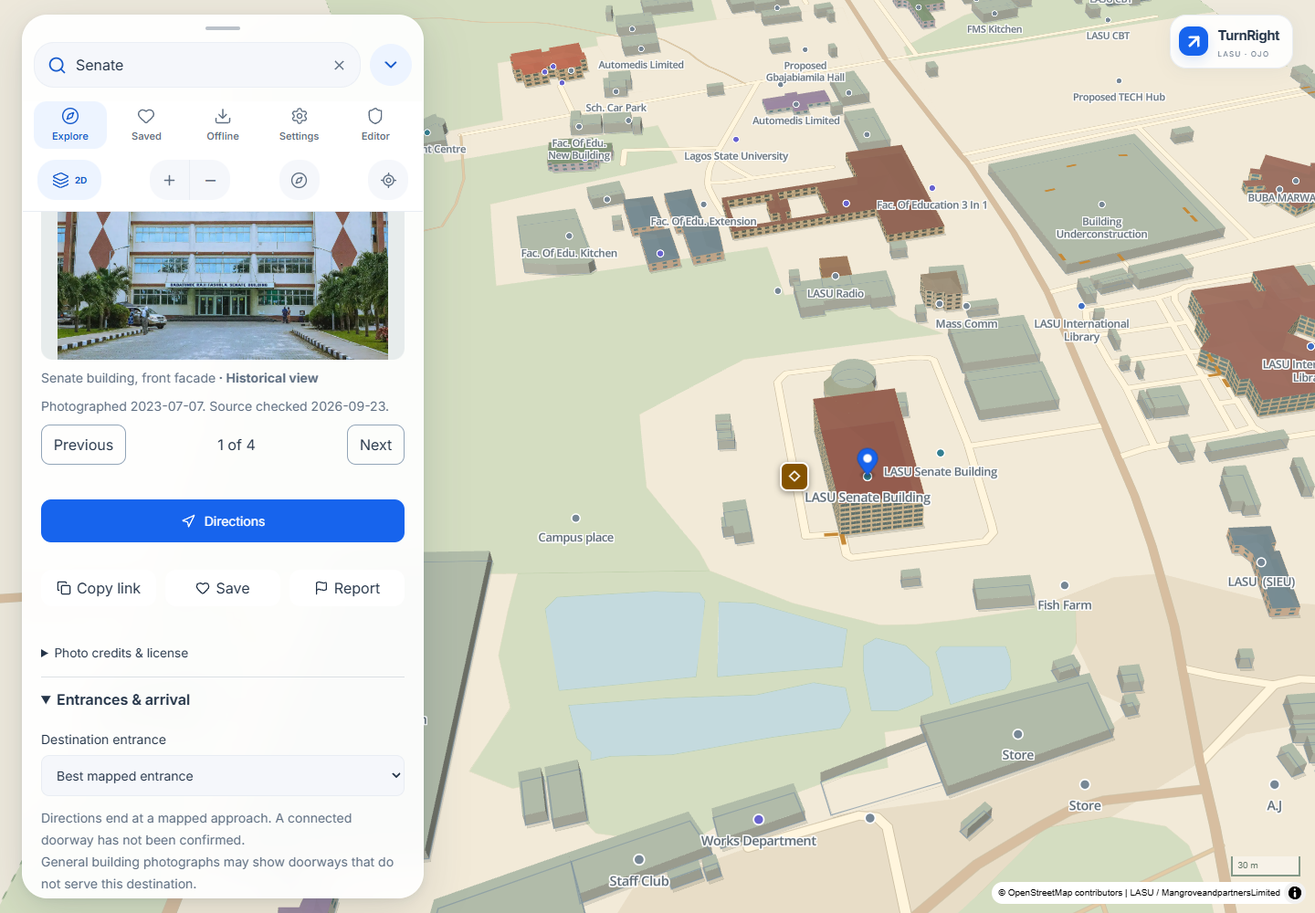
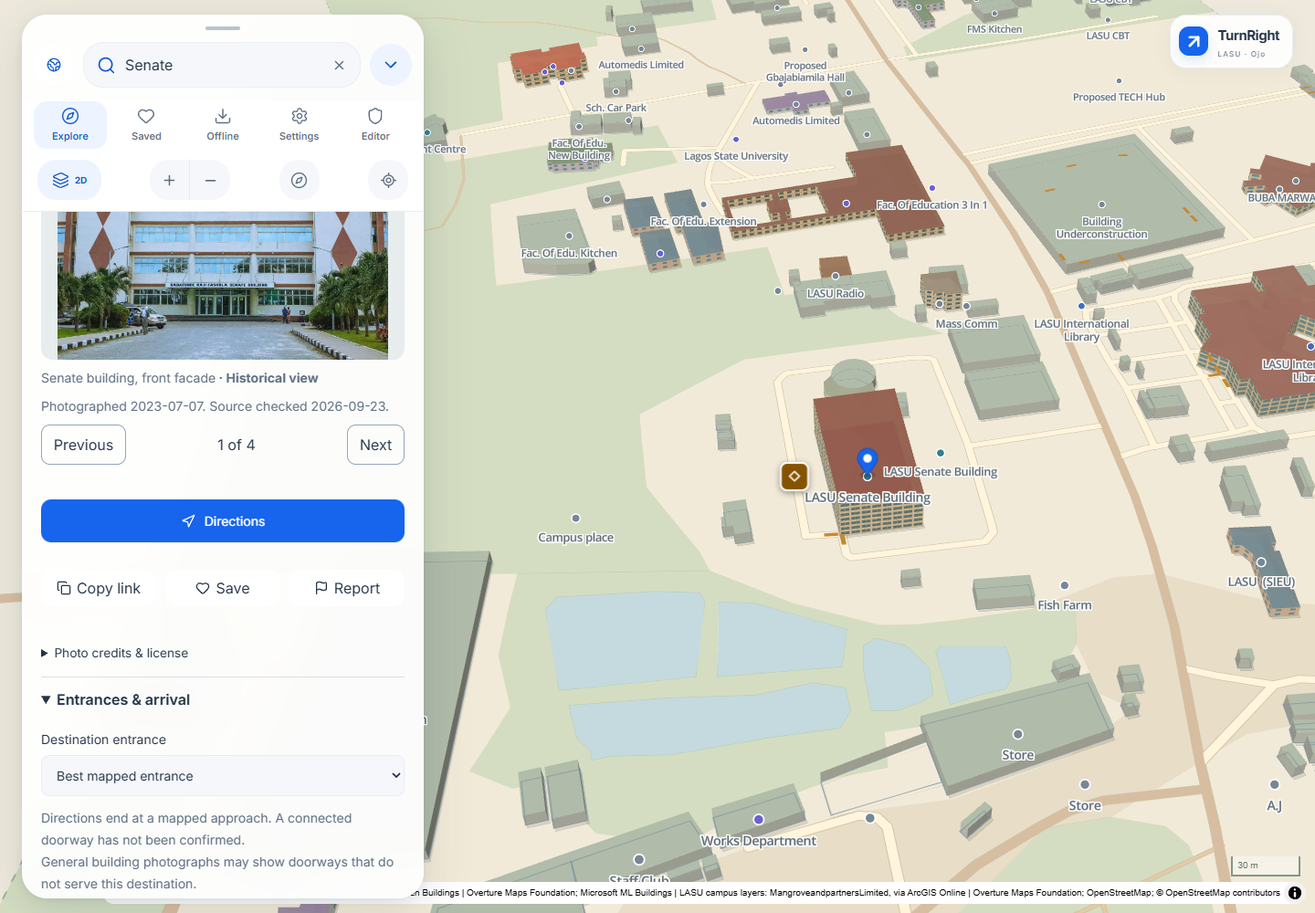
docs: refresh project scope, module tree and current screenshots

Changed region(s): [[0.0938, 0.961, 0.9688, 0.992], [0.0312, 0.062, 0.125, 0.093]]

diff --git a/README.md b/README.md
@@ -10,6 +10,16 @@ TurnRight is a campus walking and driving navigation PWA with a private owner wo
 
 > **Project status:** An independent, non-commercial personal project, not an official LASU service. Routes and modeled details combine recorded sources, reviewed corrections and explicitly illustrative estimates. Campus routes have **not been field-verified**. A mapped approach is not a confirmed building entrance, and missing steps information does not establish step-free access.
 
+The project has three connected parts: a public offline navigation app, a private campus/GIS workspace, and a building authoring editor. The same owner reviews and publishes each campus independently. LASU is currently the only published campus; other campus names in screenshots are test fixtures. Application releases and reviewed map releases have separate versions.
+
+| Project area | Current scope |
+| --- | --- |
+| Public map | Published-campus search and switching, walking/driving routes, entrances, photos, sharing, reports, voice, GPS, globe animation and per-campus offline downloads. |
+| Campus authoring | Campus creation, vector-file/OSM/public ArcGIS imports, projection and field mapping, source comparison, topology repair, surveys, private recovery and independent preview/publish/restore. |
+| Building authoring | Surface editing, individual windows, wall/roof text, reference photographs, exterior walls and curves, object/component mesh editing, GLB/glTF/OBJ/STL exchange and reviewed model publication. |
+
+[Documentation index](docs/README.md) separates current guides from dated research and verification records.
+
 ## Contents
 
 - [Screenshots](#screenshots)
@@ -60,9 +70,9 @@ Current production-build captures use the verified published campus **`lasu-7343
 
 ### Campuses and map imports
 
-The implementation below is on `codex/multi-campus-imports`. Compatible readers
-are deployed; production import controls await the database migration. See
-[the current rollout status](docs/PRODUCTION.md).
+Campuses and map imports are live. Migrations 013–015 and the owner controls
+were deployed on 26 September 2026, preserving the existing LASU map and drafts.
+See [the verified rollout](docs/PRODUCTION.md).
 
 Open **Editor → Campuses** to create a campus, draw or import its boundary, and add sources. GeoJSON, zipped Shapefiles, GeoPackage, KML/KMZ, GPX, coordinate CSV and complete OSM XML/PBF extracts become editable vector layers. Online sources include OpenStreetMap through Overpass and public ArcGIS Web Maps, embedded collections and queryable services.
 
@@ -78,7 +88,9 @@ Imports remain private review candidates. Stable source identities protect repea
 
 ![Campuses workspace with independent source and import histories](docs/assets/screenshots/campus-workspace-2026-09-26.png)
 
-Public **Campuses** search and globe markers list published campuses. `?campus=<slug>` composes with existing place/building links; old links remain LASU-only. Each campus has its own saved places, report drafts, editor recovery and offline download. A campus can publish before routing is ready, with a clear directions-unavailable state.
+![Dark theme import form with readable fields and preserved input](docs/assets/screenshots/campus-dark-2026-09-26.png)
+
+The globe button beside public search (**Choose a campus**) and globe markers list published campuses. `?campus=<slug>` composes with existing place/building links; old links remain LASU-only. Each campus has its own saved places, report drafts, editor recovery and offline download. A campus can publish before routing is ready, with a clear directions-unavailable state.
 
 | Published-campus switcher | Download one campus independently |
 | --- | --- |
@@ -90,7 +102,7 @@ Publication replaces only the reviewed campus entry while preserving the other c
 
 These new screenshots use isolated owner/API fixtures and illustrative second-campus names. They are not evidence that a second campus has been published. The remaining gallery continues to show the verified LASU package and existing model/navigation workflows.
 
-## Owner editor
+### Owner editor gallery
 
 | Workspace and feature explorer | Selected building with photographs at the top |
 | --- | --- |
@@ -157,7 +169,7 @@ The gallery covers the public app, desktop editor, mobile modes, surface text an
 - **Editing directly on surfaces:** **Edit surface** aligns the existing 3D canvas to walls, roofs or footprints. Wall handles, roof points/ridges and footprint vertices reuse precision-editing commands. Orbit restores the camera. Edit surface automatically falls back to a 2D drawing when WebGL is unavailable, retaining the same tools and numeric fields.
 - **Building lettering:** add and edit text on walls and roofs, with wording, size, colour, alignment and placement controls. Roof text follows the actual roof planes. **Ungroup** and **Detach instance** are available in selected-item actions. All use existing undo and draft persistence; publication remains a separate reviewed action.
 
-- **Canvas-first mobile modelling:** all five modes share a full-screen preview and one focused tool sheet. Tap selects; Move and Resize explicitly edit. **×** leaves the workspace and preserves unfinished work; **Done** closes only its tools. Short landscape screens put scrollable tools beside the canvas. Pinch navigation, multi-selection, held nudges and decimal inputs support precise editing. Desktop uses a collapsible tree, central viewport and properties panel.
+- **Canvas-first mobile modelling:** architectural and mesh tools share a full-screen preview and one focused tool sheet. Tap selects; Move and Resize explicitly edit. **×** leaves the workspace and preserves unfinished work; **Done** closes only its tools. Short landscape screens put scrollable tools beside the canvas. Pinch navigation, multi-selection, held nudges and decimal inputs support precise editing. Desktop uses a collapsible tree, central viewport and properties panel.
 - **Actions beside the selection:** the selected detail's ⋯ button, right-click and Shift+F10 open Duplicate, Copy, Paste/copy-to, Delete, Lock and Hide. Touch and hold a detail in **3D** to open the same menu; moving or adding a second finger cancels a pending hold. Keyboard shortcuts and placement previews support quick editing with Ungroup and Detach instance also shown when applicable.
 - **Height that changes the model:** whole-building metres and floor count are editable inside Appearance. Custom roof elevations adjust proportionally by default; owners can retain recorded elevations, fit an existing mismatch or explicitly remove a wing override. Height/roof adjustments share one undo action.
 
@@ -177,7 +189,7 @@ Release review names each pending building/wall approval before a preview is que
 | --- | --- |
 | Exploration | Bottom search dock, local place search, categories, aliases, saved/recent places, provenance and recorded street names. |
 | Map controls and panels | Adjustable mobile/desktop cards and dialogs; full-height desktop opening; pinned navigation; view/compass controls on the left and zoom/location on the right. |
-| World overview | Illustrated campus palette with subtle September 2004 NASA relief, gentle atmosphere, Natural Earth coastlines/lakes/borders, offline labels and a return-to-campus action. |
+| World overview | Illustrated campus palette, dated NASA relief, Natural Earth geography, published-campus markers, idle rotation and decorative clouds with reduced-motion controls. |
 | App updates | Visible update-ready notice, explicit installation, foreground/online checks and navigation safeguards. |
 | Driving directions | Offline campus drive-and-walk journeys, vehicle permissions and one-way roads, turn restrictions, estimated ETA, parking selection, voice guidance, and a confirmed parking-to-walking handoff. Private roads and parking require separate owner driving review. |
 | Walking directions | Worker-based A* routing, the shortest permitted walk and up to two sufficiently different alternatives when available. Recorded steps are shown; missing data stays unknown. |
@@ -188,16 +200,17 @@ Release review names each pending building/wall approval before a preview is que
 | Appearance | Shared Device/Light/Dark settings in the public map and editor, a single opposite-action 2D/3D button, Enhanced by default and a remembered Simple option. |
 | Enhanced buildings | Modeled walls, windows, trim, wings and roofs; original material colours in both themes, with automatic detail levels and simple fallback. |
 | Owner editing | Autosave, grouped undo/redo, controlled automatic crossings and explicit joins, selection framing, publication-relative drafts, recoverable drawings/roof plans, guided repairs and conflicts. |
-| Building editing | Shared surface editing with automatic 2D fallback; nested structure tree; wall/roof text; inherited styles; details, grouping, patterns and presets; targeted review and recoverable autosave. |
+| Building editing | Shared surface editing, automatic 2D fallback, individual window selection, nested tree, wall/roof text, reference split, exterior curves, mesh components, model-file import/export and recoverable autosave. |
 | Offline | Verified, resumable package downloads, explicit updates, integrity repair, prepared owner workspaces and immediate local recovery exports. |
-| Data maintenance | Source comparison, reference/roof proposals, validation, release-impact and route checks, immutable preview/publish/rollback. |
+| Campus imports | Separate campus boundaries and sources; GIS files, OSM/Overpass and public ArcGIS; resumable jobs, CRS/field mapping, explicit review and manual or opted-in daily refresh. |
+| Data maintenance | Source comparison, validation, model/route review, immutable previews, independent campus publication and restore previews that preserve other campuses. |
 | Reports and surveys | Private student reports with local offline drafts; owner-only walking surveys, entrance markers, touch review and recoverable private sync. |
 
-Cycling, indoor positioning, current campus satellite imagery, background navigation, public user accounts and public user reviews are outside this release.
+Cycling, cross-campus routing, indoor layouts/positioning, sculpting, advanced mesh modifiers, live weather, current campus satellite imagery, background navigation, public user accounts and public reviews are outside this release. GIS imports exclude imagery/PDF alignment, private ArcGIS authentication and File Geodatabases. Model files preserve supported static geometry and materials, not animation or rigging.
 
 ## Quick start
 
-Use **Node.js 22.13+ within the 22.x line**, npm, Git and a WebGL-capable browser. Python 3.12+ is needed for importer scripts and their tests.
+Use **Node.js 22.13+ within the 22.x line**, npm, Git and a WebGL-capable browser. Python 3.12+ is needed for importer scripts and their tests. Full GIS conversion requires the pinned Linux Docker runtime in `scripts/map_import/Dockerfile`; GDAL/PROJ and Pyosmium stay outside the browser bundle.
 
 ```sh
 git clone https://github.com/mrglasswillbreak/TurnRight.git
@@ -364,18 +377,21 @@ At globe scale, separate controls enable gentle automatic rotation and decorativ
 
 **Saving a draft and deploying application code do not publish campus changes.**
 
-1. Import source candidates with **Check now** or the scheduled source job. Incomplete imports retain the last successful source set.
+1. Select the target campus. Use **Campuses → Import data** for new sources, or refresh an existing source. LASU also retains its original **Check now** and daily source workflow. Incomplete imports retain the last successful source set.
 2. Compare property rows and before/after geometry; raw records remain under Details. Review baseline reconciliation when approved sources differ from a published baseline.
-3. Resolve blocking validation issues and inspect release impact: added/changed/deleted features, entrance and connectivity changes, and Clinic–Senate, Clinic–Law and Clinic–Library route results.
+3. Resolve blocking validation issues and inspect release impact: added/changed/deleted features, entrance and connectivity changes, and representative routes. LASU retains Clinic–Senate, Clinic–Law and Clinic–Library comparisons; new campuses use their own reviewed network. Map-only campuses can publish with directions explicitly unavailable.
 4. Resolve any **Model release blockers** first. The panel names the building, wing and wall; **Review model** opens the affected assignment. Height or roof changes can require another placement review without changing the wall match. Then **Build review preview** flushes pending saves and creates an immutable release snapshot. The release worker independently validates it and regenerates the visual catalogue/sectors with the same building and roof rules as the editor.
-5. Review the hosted preview, then use the owner's **Publish** action. Publication is recorded only after deployment/promotion succeeds. Keep the previous release for rollback.
+5. Review the hosted preview, then use the owner's **Publish** action. Publication is recorded only after deployment/promotion succeeds. Keep previous immutable packages for restoration. **Prepare restore preview** combines that campus’s historical package with every other campus’s current package; review and publish the new preview.
 
 Job status refreshes while its review panel is open. Publication and job submissions are checked before repetition; a failed action is not treated as published. Closures remain active until explicitly reopened and republished; an expected reopening date is only a review flag.
 
 | Workflow | Purpose |
 | --- | --- |
-| `source-update.yml` | Daily/on-demand source import and comparison |
-| `release.yml` | Reviewed preview, publication and rollback |
+| `source-update.yml` | Original LASU daily/on-demand source comparison, 02:17 UTC |
+| `map-import.yml` | Inspect and preview a private campus import with a run token |
+| `map-source-check.yml` | Check opted-in sources daily at 03:47 UTC; never auto-publish |
+| `map-import-tests.yml` | Pinned Linux GIS driver and adapter regression tests |
+| `release.yml` | Serialized campus preview/publish; restores create a fresh preview |
 | `preview.yml` | Manual seed-based preview deployment |
 | `bootstrap.yml` | Initial accepted source baseline without overwriting an existing baseline |
 
@@ -391,7 +407,7 @@ Recording uses foreground GPS in north-up 2D. Pause/resume is explicit; backgrou
 
 Review supports trimming, splitting, vertex movement and explicit endpoint connections. Correcting an existing path retains geometry outside the selected section and preserves boundary junctions and metadata. Paths crossing at the same level connect automatically. Each path has **Connect crossings automatically** and **Crossing level** controls; bridges, tunnels, restrictions and missing gate spans remain separate where appropriate. See [connection controls](docs/EDITOR.md#control-automatic-connections).
 
-Local recordings are owner-scoped and recoverable. Private sync preserves conflicting versions for review; raw sample tracks and timestamps are excluded from public packages. Field verification on physical Android and iPhone remains outstanding. [Survey guide and field record](docs/SURVEY.md).
+Local recordings are owner- and campus-scoped and recoverable. Private sync preserves conflicting versions for review; raw sample tracks and timestamps are excluded from public packages. Field verification on physical Android and iPhone remains outstanding. [Survey guide and field record](docs/SURVEY.md).
 
 ## Offline operation and recovery
 
@@ -401,13 +417,16 @@ An initial online visit and a completed download are required. Installation and 
 | --- | --- |
 | App shell, UI, fonts, map/model/routing workers, world overview and natural voice | Service-worker precache; world data and natural audio are included automatically |
 | Campus geometry, routing, arrival guides, approved photographs and credits, glyphs, legacy fallback audio, visual catalogue and model sectors | Size/hash-verified CacheStorage assets with IndexedDB package records |
-| Preferences, saved places, private editor/survey recovery and report drafts | Local browser storage, scoped where appropriate |
+| Saved places, report drafts and package pointers | Device-local, isolated by campus; shared app/theme preferences stay global |
+| Private editor, survey, photo and model recovery | Device-local, scoped to owner and campus |
 
 The natural voice pack is saved automatically with the **app**, independently of the campus download, with an 8 MiB total budget. Ordinary deployments reuse its checked-in recordings; no speech model runs on a phone. Existing campus-packaged recordings remain available as a fallback. Finish saving the app **and** downloading the campus map before disconnecting.
 
 The world overview adds **about 5.30 MiB**, including 341 local 512-pixel raster tiles at zooms 0–4 and Natural Earth vectors. It uses the bundled label font. World assets are hash-verified before a new service worker activates; a failed installation keeps the working app. Wait for **Ready offline** before disconnecting; no external tiles or fonts are needed to explore the saved globe. A failed world-data load leaves the campus usable and offers **Retry world map**.
 
 Downloads are resumable and activate atomically after integrity checks. Interrupted or corrupt updates retain the working package and can reuse valid assets. **Offline** shows the actual downloaded version, coverage and model readiness. A known newer map requires an explicit download; it waits to activate during navigation. The public **App update ready** notice and **Settings → Install update** activate a waiting application update with editing/navigation safeguards. App-update checks run once a minute while visible and online, and on returning to the app or reconnecting. Installing remains an explicit action; it is disabled during an active walk.
+
+Choose the campus first, then use **Offline** to download or remove its package independently. Removing one campus does not remove another campus’s map or reset its saved places. Switching stops the current route explicitly; the app never joins networks across campuses.
 
 The campus download includes **every approved release photograph** and its required credits. Photo totals above 20 MiB produce a size warning, not silent omissions. Every required asset must verify before activation; integrity repair and immutable older assets support recovery and rollback. Older packages remain readable with absent guides and galleries omitted.
 
@@ -419,9 +438,9 @@ Storage can be evicted or unavailable. Keep recovery exports for important work;
 
 ![Source review and baseline information in the owner editor](docs/assets/screenshots/editor-sources-current-2026-09-26.png)
 
-TurnRight combines OpenStreetMap and permitted LASU ArcGIS layers with reviewed owner corrections. Source IDs, access tags and provenance remain available. The world overview uses the fixed September 2004 NASA Blue Marble shaded-topography composite (about 2 km per original pixel at the equator) and public-domain Natural Earth v5.1.2 at 1:50m scale. It does not add worldwide roads, current campus imagery or routing coverage. Tiles are bundled locally. [Sources, dates, checksums and credits](data/world-sources.json).
+The LASU map combines OpenStreetMap and permitted LASU ArcGIS layers with reviewed owner corrections. Other campuses retain their own boundaries, mappings, source identities, attribution and access reviews. LASU’s confirmed road/gate exceptions are never applied to other campuses. Source IDs, access tags and provenance remain available. The world overview uses the fixed September 2004 NASA Blue Marble shaded-topography composite (about 2 km per original pixel at the equator) and public-domain Natural Earth v5.1.2 at 1:50m scale. It does not add worldwide roads, current campus imagery or routing coverage. Tiles are bundled locally. [Sources, dates, checksums and credits](data/world-sources.json).
 
-The reviewed public release verified on **26 September 2026** is **`lasu-7343cb96c9a5`**, containing **395 buildings, 220 places and 39 photographs**, with **84 assets / 20,228,832 bytes**. Its release summary is “Roofing detail additions and map building clean up”. The earlier photographic assessment used `lasu-623791e1184e`. That earlier release added the 19-building photographic assessment to the previous `lasu-8577d5c85d2c` baseline; feature identities, footprints, photographs, routing graph and access permissions are unchanged. The [coverage report](docs/PHOTO-MODEL-COVERAGE.md) records comparisons against that previous baseline. The live/downloaded version can advance independently; the app's Offline screen is authoritative for the user's installed package.
+The reviewed public release verified on **26 September 2026** is **`lasu-7343cb96c9a5`**, containing **395 buildings, 220 places and 39 photographs**, with **84 assets / 20,228,832 bytes**. Its release summary is “Roofing detail additions and map building clean up”. The earlier 19-building photographic assessment used `lasu-8577d5c85d2c` and was published as `lasu-313d8a168635` on 24 September. Its historical comparison preserved feature identities, footprints, photographs, routing and access permissions; later owner publications have their own release records. The [coverage report](docs/PHOTO-MODEL-COVERAGE.md) records comparisons against that previous baseline. The live/downloaded version can advance independently; the app's Offline screen is authoritative for the user's installed package.
 
 Seed coverage is a reproducible baseline, not a claim about later owner releases:
 
@@ -453,28 +472,32 @@ The roof assessment covered 380 footprints and proposed 46 wing roofs across 44 
 | Routing | Dedicated worker, A* and bounded alternatives |
 | Offline | Workbox, `vite-plugin-pwa`, IndexedDB and CacheStorage |
 | Audio and sensors | Packaged Web Audio clips, optional local speech, foreground GPS and optional motion/orientation |
-| Administration | Supabase Auth/PostgreSQL/PostGIS, RLS and single-owner API authorization |
+| Campus isolation | Explicit campus IDs/URL slugs, request-scoped REST/RPC operations, immutable public catalogue and independent device state |
+| GIS processing | Pinned GDAL/PROJ and Pyosmium in network-isolated Linux workers; private uploads and cancellable jobs |
+| Model documents | Versioned private immutable topology/material assets, lazy Three.js file workers and reviewed public compilation |
+| Administration | Supabase Auth/PostgreSQL/PostGIS/Storage, RLS and single-owner API authorization |
 | Hosting/jobs | Vercel application/API; GitHub Actions with Python and Node scripts |
 
 ```mermaid
 flowchart LR
-    Sources[Recorded map sources] --> Import[Import and compare]
-    Import --> Editor[Owner review and draft edits]
-    Editor --> Snapshot[Validate immutable snapshot]
-    Snapshot --> Preview[Build map and models / preview]
-    Preview --> Publish[Owner publishes release]
-    Publish --> App[Public app and verified offline package]
+    Sources[GIS files / OSM / public ArcGIS] --> Import[Private import and comparison]
+    Import --> Editor[Owner review in selected campus]
+    Models[Surfaces / curves / mesh files / photos] --> Editor
+    Editor --> Snapshot[Validate campus snapshot and authored assets]
+    Snapshot --> Preview[Build preview with current campus catalogue]
+    Preview --> Publish[Owner publishes one campus]
+    Publish --> App[Public switcher and verified campus packages]
     App --> Device[Local search / routing / GPS / audio]
     Reports[Private reports and surveys] --> Editor
 ```
 
-Published navigation does not require the admin database to be available. Model appearance and optional recovery fields use existing JSON properties; source geometry and routing remain separate from display classifications. [Architecture details](docs/ARCHITECTURE.md).
+Published navigation does not require the admin database to be available. Native appearance uses building JSON; expanded authored geometry uses versioned private documents compiled into public assets at release time. GIS source attributes and survey samples stay private. Geographic footprints and reviewed paths remain routing authority. [Architecture details](docs/ARCHITECTURE.md).
 
 ## Configuration and hosting
 
 Public seed exploration requires no credentials. Connected administration/reports need [web/.env.example](web/.env.example), Supabase GitHub OAuth, the owner allowlist, database migrations and workflow configuration.
 
-The unified model editor adds no migration or public package schema. Deploy its compatible authoring-metadata validation before dependent clients. For a new installation, apply the existing migrations in order through **[011_linear_baseline_reconciliation.sql](supabase/migrations/011_linear_baseline_reconciliation.sql)**. Migration [007](supabase/migrations/007_source_field_reviews.sql) adds field-level source reviews; [008](supabase/migrations/008_private_building_media.sql) adds private building media storage and owner-only metadata; [009](supabase/migrations/009_bounded_baseline_comparison.sql) bounds source comparisons and writes only changed baseline rows while retaining authorization, stale-review checks and rollback records. Migration [011](supabase/migrations/011_linear_baseline_reconciliation.sql) materializes parsed RPC inputs and further bounds baseline comparisons under cached plans, reuses the verified snapshot for rollback, and keeps authorization and scopes a 15-second budget to this owner-only bulk operation. Migration [010](supabase/migrations/010_private_photo_drafts.sql) adds private photo drafts, original filenames, target associations and guarded revisions while preserving immutable approvals. Author-uploaded photographs may omit a source website; releases containing them use package schema 3. Deploy compatible readers before publishing schema-3 content; schemas 1 and 2 remain readable. Follow the deployment guide's base setup and the production record.
+For a new installation, apply the migrations in order through **[015_campus_release_restores.sql](supabase/migrations/015_campus_release_restores.sql)**. Deploy compatible readers before enabling new writers. Migration [012](supabase/migrations/012_editable_model_assets.sql) adds private authored-model assets and versioned save protection; [013](supabase/migrations/013_campus_isolation.sql) scopes existing data to LASU; [014](supabase/migrations/014_map_import_jobs.sql) adds private import jobs and assets; [015](supabase/migrations/015_campus_release_restores.sql) adds per-campus release restoration. The earlier unified-editor layout redesign itself required no schema change. Migration [007](supabase/migrations/007_source_field_reviews.sql) adds field-level source reviews; [008](supabase/migrations/008_private_building_media.sql) adds private building media storage and owner-only metadata; [009](supabase/migrations/009_bounded_baseline_comparison.sql) bounds source comparisons and writes only changed baseline rows while retaining authorization, stale-review checks and rollback records. Migration [011](supabase/migrations/011_linear_baseline_reconciliation.sql) materializes parsed RPC inputs and further bounds baseline comparisons under cached plans, reuses the verified snapshot for rollback, and keeps authorization and scopes a 15-second budget to this owner-only bulk operation. Migration [010](supabase/migrations/010_private_photo_drafts.sql) adds private photo drafts, original filenames, target associations and guarded revisions while preserving immutable approvals. Author-uploaded photographs may omit a source website; releases containing them use package schema 3. Deploy compatible readers before publishing schema-3 content; schemas 1 and 2 remain readable. Follow the deployment guide's base setup and the production record.
 
 | Variables | Scope |
 | --- | --- |
@@ -487,7 +510,7 @@ The unified model editor adds no migration or public package schema. Deploy its 
 
 Do not put privileged keys in `VITE_` variables or commit real environment files. Additional GitHub Actions deployment secrets are listed in [DEPLOYMENT.md](docs/DEPLOYMENT.md).
 
-Vercel uses **`web` as the project root**, **Node 22**, **`npm run build`** and **`dist`** output, with repository files outside the root available. Main-branch code changes deploy the application. `PUBLISHED_MAP_URL` fetches and verifies the currently published package so a UI deployment cannot silently revert it to the seed; failure stops the build. Owner-reviewed releases use their immutable snapshot instead.
+Vercel uses **`web` as the project root**, **Node 22**, **`npm run build`** and **`dist`** output, with repository files outside the root available. Main-branch code changes deploy the application. `PUBLISHED_MAP_URL` fetches and verifies the full published-campus catalogue and its packages so a UI deployment cannot silently revert it to the seed; failure stops the build. Owner-reviewed releases use their immutable snapshot instead.
 
 The project is configured on Vercel Hobby and Supabase Free. Hosting quotas or paused backend services can interrupt connected operations; already downloaded navigation remains local. See [configuration](docs/CONFIGURATION.md) and [production history](docs/PRODUCTION.md).
 
@@ -531,32 +554,79 @@ Acceptance records separate automated/browser checks from unfinished physical wo
 
 ## Repository structure
 
+This is a guide to the active modules, not an exhaustive file listing. Filenames are repository paths; grouped families such as `model-*` are files, not additional directories.
+
 ```text
 TurnRight/
-├── web/
-│   ├── src/                 # Public UI, editor, map, buildings, routing and storage
-│   │   ├── AppearanceSettings.tsx # Shared public/editor theme control
-│   │   ├── PhotoModelWorkspace.tsx # Shared model editor and responsive panels
-│   │   ├── ModelStructureTree.tsx # Accessible model hierarchy
-│   │   ├── model-surface.tsx # Shared surface gesture/projection bridge
-│   │   ├── campus-model-layer.ts # Enhanced rendering and model lifecycle
-│   │   └── sw.ts            # Application service worker
-│   ├── api/                 # Vercel admin and report endpoints
-│   ├── server/              # Server-only validation and authorization
-│   ├── tests/               # Unit, browser and offline regression coverage
-│   ├── public/              # Development seed and packaged static assets
-│   └── .env.example         # Configuration names without credentials
-├── data/                    # Sources, visuals, reference/roof assessments and attribution
-├── scripts/                 # Import, compare, validate, package and release jobs
-├── supabase/migrations/     # Database schema, policies and reconciliation
-├── .github/workflows/       # Source and release automation
-└── docs/                    # Workflow guides, acceptance records and screenshots
+├── web/                              # React/Vite PWA and Vercel application
+│   ├── src/
+│   │   ├── App.tsx, MapView.tsx       # Public campus map and navigation shell
+│   │   ├── CampusSwitcher.tsx        # Published campus search and globe markers
+│   │   ├── campus-context.ts         # Campus identity, URLs and LASU compatibility
+│   │   ├── campus-catalogue.ts       # Public catalogue loading/offline fallback
+│   │   ├── Admin.tsx                 # Authenticated owner workspace
+│   │   ├── CampusWorkspace.tsx       # Campus creation, imports, mapping and jobs
+│   │   ├── ImportMapPreview.tsx      # Boundary and candidate map preview
+│   │   ├── editor-*.ts               # Commands, topology, recovery and persistence
+│   │   ├── PhotoModelWorkspace.tsx   # Shared model workspace and responsive panels
+│   │   ├── ModelStructureTree.tsx    # Nested tree and accessible selection
+│   │   ├── ModelMeshPanel.tsx        # Object/vertex/edge/face tools
+│   │   ├── ModelFilePanel.tsx        # Model import preview and export controls
+│   │   ├── model-*.ts / model-*.tsx   # Documents, mesh commands, curves and gestures
+│   │   ├── building-*.ts             # Architectural generation and surface identity
+│   │   ├── surface-text.ts           # Wall/roof lettering and validation
+│   │   ├── campus-model-layer.ts     # Published/draft Three.js model rendering
+│   │   ├── PhotoManager.tsx          # Private photo uploads, recovery and approvals
+│   │   ├── SurveyPanel.tsx           # GPS recording and reviewed path application
+│   │   ├── routing.worker.ts         # Device-local routing
+│   │   ├── WorldAnimation.tsx        # Globe rotation/cloud controls
+│   │   ├── world-clouds.ts           # Globe-aware decorative cloud layer
+│   │   ├── offline.ts, sw.ts         # Campus caches, recovery and app updates
+│   │   └── components/ui/            # Shared accessible UI controls
+│   ├── api/                         # Authenticated admin and public report endpoints
+│   ├── server/
+│   │   ├── campus-scope.ts           # Request-local database/RPC campus context
+│   │   ├── campuses.ts               # Campus resolution and creation
+│   │   ├── map-imports.ts            # Signed uploads and import job lifecycle
+│   │   ├── model-assets.ts           # Private immutable model documents
+│   │   └── release-validation.ts     # Server-side publication validation
+│   ├── scripts/                     # Build preservation, budgets and benchmarks
+│   │   └── published-campus-catalogue.mjs # Preserve/replace one campus atomically
+│   ├── tests/                       # Unit/database tests, fixtures, browser workflows
+│   ├── public/                      # Seed packages, world/voice/glyph/static assets
+│   ├── playwright*.config.ts         # Chromium, WebKit, PWA, docs and performance runs
+│   ├── package.json                 # Node 22 scripts and pinned dependencies
+│   └── .env.example                 # Configuration names without credentials
+├── scripts/
+│   ├── import_map.py                # Private GIS job and isolated parser entry point
+│   ├── map_import/                  # GDAL formats, OSM, ArcGIS, network and normalization
+│   │   └── Dockerfile               # Pinned Linux GDAL/PROJ/Pyosmium runtime
+│   ├── check_map_sources.py         # Opted-in source refresh scheduler
+│   ├── import_campus.py             # Original LASU source importer
+│   ├── enrich_campus.py             # LASU enrichment/research candidate generation
+│   ├── release.mts                  # Reviewed campus preview, publication and restore
+│   ├── package.mjs                  # Immutable map package generation
+│   ├── visual-package.mjs           # Native/authored model compilation and textures
+│   ├── cloud.mjs                    # Scoped database and release helpers
+│   └── tests/                       # GIS, access, routing and enrichment regressions
+├── data/                            # Attribution, source policy and evidence inventories
+├── supabase/migrations/             # Ordered migrations 001–015, including campus isolation
+├── .github/workflows/               # LASU refresh, GIS jobs/tests, preview and release jobs
+├── docs/                            # Current guides, dated evidence and screenshot inventory
+│   ├── README.md                    # Documentation index by workflow
+│   └── assets/screenshots/           # Unaltered application captures with provenance
+└── README.md                        # Project scope, workflows and visual overview
 ```
 
 ## Troubleshooting
 
 | Symptom | What to do |
 | --- | --- |
+| Campuses is missing after deployment | Use the app’s **Install update** prompt; it preserves recovery and installs the new shell. Reopening alone can still use a waiting older service worker. |
+| Import header or fields are unreadable in Dark mode | Install the current app update; campus surfaces and validation text use the shared theme tokens. |
+| A map import cannot finish | Open its job details; check missing projections/files, feature or expanded-size limits, attribution and source completeness. Correct the source/mapping and retry; failed jobs do not replace accepted data. |
+| A campus is missing from public search | Private campus creation/import does not publish it. Review the candidate, then build and publish that campus’s release. |
+| A second-campus preview is stale | Another publication changed the catalogue. Build a fresh preview so every other campus’s current assets are preserved. |
 | Models look like basic blocks | Check **Settings → 3D rendering → Enhanced**, then zoom closer. Inspect the model status or retry failed assets. Some footprints have no enhanced model. |
 | Building colours look different in dark mode | Enhanced models retain saved colours with lighting/shadows; Simple blocks and 2D footprints use slate styling. Install a waiting app update if enhanced materials still appear slate. |
 | Mapped-approach text is pale on a white popup in Dark mode | Install the available **app update** from the notice or Settings. Popup text and surfaces now follow the active theme; no campus-data update is required for this display fix. |
@@ -576,6 +646,8 @@ TurnRight/
 | Local admin/report API fails | Vite does not host Vercel functions. Use a configured hosted environment and verify OAuth, variables and owner authorization. |
 
 ## Documentation
+
+Start with the [documentation index](docs/README.md), which groups guides by task and identifies historical evidence.
 
 - [Campuses and map imports](docs/CAMPUS-IMPORTS.md): creation, supported sources, mapping, review, refresh, public switching and offline downloads.
 

diff --git a/docs/README.md b/docs/README.md
@@ -1,0 +1,50 @@
+# TurnRight documentation
+
+TurnRight combines a public campus navigation PWA, a private GIS/map workspace and a building authoring editor. LASU Ojo is the default and currently the only published campus. Separate campuses can be created and imported privately, then reviewed and published independently. See the [project overview and screenshots](../README.md), [repository map](../README.md#repository-structure) and [verified production state](PRODUCTION.md).
+
+## Use the application
+
+| Task | Guide |
+| --- | --- |
+| Create a campus, import GIS files/OSM/public ArcGIS, map fields and review | [Campuses and map imports](CAMPUS-IMPORTS.md) |
+| Edit places, paths, entrances, access and source changes | [Owner editor](EDITOR.md) |
+| Edit windows, walls, roofs, footprints, text and model review | [Unified model editor](UNIFIED-MODEL-EDITOR.md) and [building editing](BUILDING-EDITOR.md) |
+| Use photo reference split, curves, mesh components and GLB/glTF/OBJ/STL | [Model authoring](MODEL-AUTHORING.md) |
+| Edit standard and custom roof plans | [Building roofs](BUILDING-ROOFS.md) |
+| Upload, credit, recover and approve photographs; edit arrival guides | [Arrival guides and photos](ARRIVAL-GUIDES.md) |
+| Record and review private path/entrance evidence | [Walking surveys](SURVEY.md) |
+| Use vehicle routes, parking and the walking handoff | [Driving](DRIVING.md) |
+| Understand offline spoken guidance | [Voice](VOICE.md) |
+| Use compass/location assistance and decorative globe animation | [Motion](MOTION.md) |
+| Recover incomplete edits, resolve conflicts and inspect release changes | [Editor reliability](EDITOR-RELIABILITY.md) |
+
+Native surface editing can fall back to 2D when WebGL is unavailable; mesh editing requires WebGL. Standard model files preserve supported static geometry and appearance, while native parameters, review state and history remain in TurnRight. GIS imports do not include imagery/PDF alignment or private ArcGIS authentication. No cross-campus routing or interior room workflow is provided.
+
+## Develop, configure and deploy
+
+| Area | Reference |
+| --- | --- |
+| Module ownership, data flow, workers, persistence and compatibility | [Architecture](ARCHITECTURE.md) |
+| New installations, migrations 001–015, credentials and release jobs | [Deployment](DEPLOYMENT.md) |
+| Existing project configuration and operational settings | [Configuration](CONFIGURATION.md) |
+| Current production revision and dated deployment receipts | [Production](PRODUCTION.md) |
+| Automated acceptance and uncompleted physical-device/field checks | [Acceptance](ACCEPTANCE.md) |
+| Model commands, renderer identity, regression and budget evidence | [Model editor verification](MODEL-EDITOR-VERIFICATION.md) |
+| Worker bounds, upload behavior and measurements | [Performance](PERFORMANCE.md) and [mobile model performance](MOBILE-MODEL-PERFORMANCE.md) |
+| Theme tokens and text contrast | [Dark-mode readability](DARK-MODE-READABILITY.md) and [map styling](DARK-MAP-STYLING.md) |
+| Screenshot files, fixture provenance and reproduction | [Screenshot inventory](assets/screenshots/README.md) |
+| Source/data reuse and public credits | [Attribution](../data/ATTRIBUTION.md) and [photo source records](../data/photos/README.md) |
+
+Start with Node 22.13+ in the 22.x line and `npm ci` inside `web/`. `npm run dev` serves the public seed with no credentials; it does not serve the Vercel APIs. Browser workflows isolate authentication and private data. `npm test`, `npm run lint`, `npm run build` and `npm run check:configured-build` cover the app and budgets. Full GIS driver checks run in the pinned Linux container; [import verification](CAMPUS-IMPORTS.md#verification) provides the commands. App code deployment preserves published packages; map/model publication is a separate owner action.
+
+## Research and historical evidence
+
+These records retain the package, date and measurements they assessed. Their counts and older interface labels are not the current application specification. Do not rewrite source observations to match a newer UI; consult the current guides above for operating instructions.
+
+- [LASU enrichment](ENRICHMENT.md) and its [September 22 candidate ledger](../data/enrichment/2026-09-22/README.md).
+- [Campus access](CAMPUS-ACCESS.md), [Law/Library connection review](CONNECTION-REVIEW.md) and [Overture comparison](OVERTURE-COMPARISON.md). Their access exceptions apply only to LASU and the recorded source identities.
+- [Building reference research](BUILDING-REFERENCE-RESEARCH.md), [appearance coverage](BUILDING-APPEARANCE-COVERAGE.md), [roof coverage](BUILDING-ROOF-COVERAGE.md), [miniature-campus assessment](MINIATURE-CAMPUS.md) and [visual reference sheets](../data/visuals/reference-sheets.md).
+- [Photographic models](PHOTO-MODELS.md), [all-building/photo coverage](PHOTO-MODEL-COVERAGE.md) and [September 24 verification](PHOTO-MODEL-VERIFICATION.md).
+- [Earlier map/editor improvements](MAP-IMPROVEMENTS.md), dated sections of [Production](PRODUCTION.md), and the archived captures in the [screenshot inventory](assets/screenshots/README.md).
+
+When changing a workflow, update its guide and the README entry, recapture affected screens from the actual application, validate relative links and heading anchors, and record measured results with their date/package. Keep example campuses and illustrative model changes labelled. Software-rendered phone screenshots and automated GPS fixtures do not establish physical-device behavior or campus safety.

diff --git a/docs/assets/screenshots/README.md b/docs/assets/screenshots/README.md
@@ -2,9 +2,9 @@
 
 ## Multi-campus addition · 26 September 2026
 
-Eight `campus-*-2026-09-26.png` captures add the directory, creation/boundary preview, source selection, field mapping, preview/review, phone landscape, public switcher and per-campus offline controls. They are unaltered Chromium captures of the current source with isolated owner/import API responses and the checked-in LASU `lasu-4e4c8008b38b` geography. Second-campus names, feature counts and source URLs are illustrative fixtures. No private account, uploaded file or production draft is exposed; no second production campus is implied.
+Nine `campus-*-2026-09-26.png` captures cover the directory, creation/boundary preview, source selection, field mapping, preview/review, phone landscape, public switcher, per-campus offline controls and the corrected dark-theme import form. They are unaltered Chromium captures with isolated owner/import API responses. The original eight use checked-in LASU `lasu-4e4c8008b38b` geography; `campus-dark` uses the small automated campus fixture. Second-campus names, counts and URLs are illustrative. No private account, uploaded file or production draft is exposed; no second production campus is implied.
 
-Regenerate from `web/` with `UPDATE_CAMPUS_SCREENSHOTS=true npx playwright test campus-imports.spec.ts` (PowerShell: set `$env:UPDATE_CAMPUS_SCREENSHOTS='true'` first). Review every image after capture. The offline capture shows the campus's download controls, not proof of a disconnected session. The existing 46-image model/navigation gallery below remains; the root README now includes these eight additional workflows.
+Regenerate from `web/` with `UPDATE_CAMPUS_SCREENSHOTS=true npx playwright test campus-imports.spec.ts` (PowerShell: set `$env:UPDATE_CAMPUS_SCREENSHOTS='true'` first). `--grep 'readable headers'` refreshes just the dark form. Review every image after capture. Offline captures show controls, not proof of a disconnected session. The root README includes **55 distinct screenshots**: the existing 46-image model/navigation gallery plus these nine campus views.
 
 
 ## Current application gallery · 26 September 2026
@@ -12,6 +12,13 @@ Regenerate from `web/` with `UPDATE_CAMPUS_SCREENSHOTS=true npx playwright test 
 The gallery shows the current reference-editing, globe and authored-model
 workspace alongside the existing public-map and owner workflows. Published model
 compatibility remains covered by the frozen legacy regression fixtures.
+
+The complete production-build gallery was rerun after runtime revision
+`e610644` on 26 September. Public views now show the globe campus chooser beside
+search, with no floating button over navigation. Owner views include the
+Campuses entry. The capture workflow passes; screenshot review includes desktop,
+portrait, landscape and both themes. These captures retain the same published
+campus and isolated owner data described below.
 
 Before the campus-import additions above, the root README contained **46 distinct,
 unaltered PNG screenshots**. This production-build gallery uses verified campus
